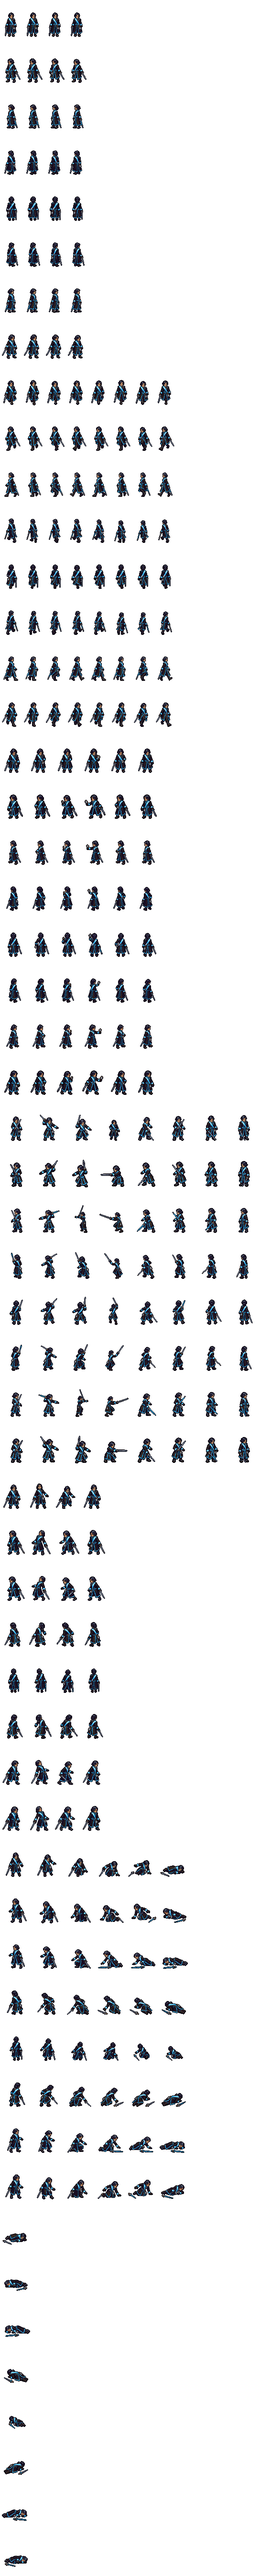
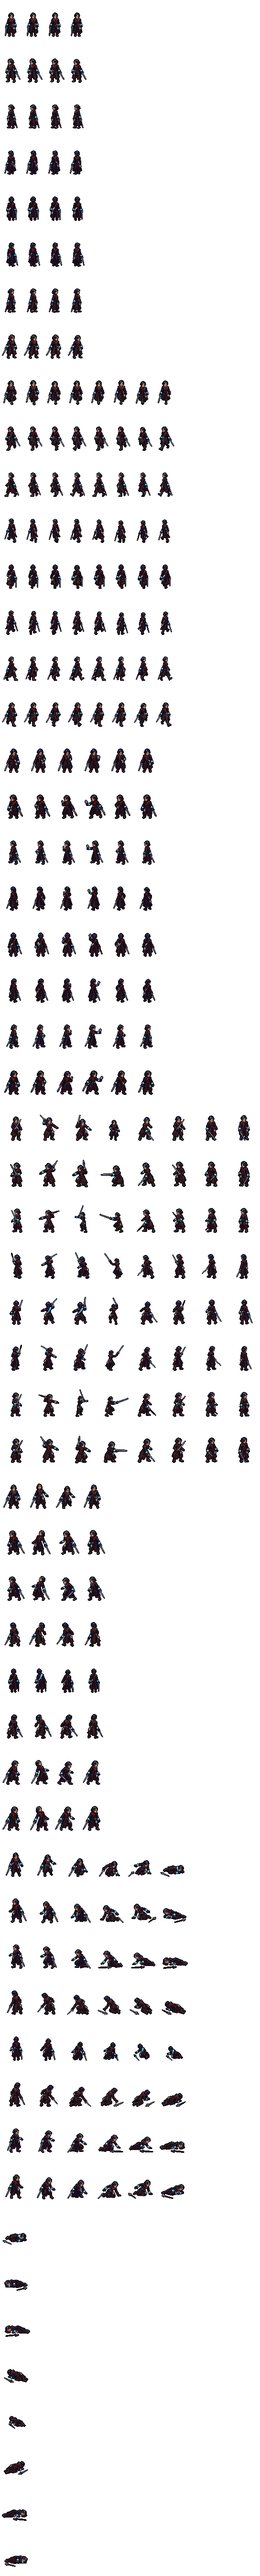
The patrol lady's trims redone: the Dominion's crimson, her patron on her cuffs only (art-wanted 101)
His words, on her first trims set beside the sergeant: "the patron flavor
is too much. It kinda feels like just the cuffs should patron - something
small, with more dominion unity overall".

tools/dmlady-sheet.py trim_mask() marks her cuffs apart on the source
pages (the compact white pieces at her wrists, CUFF) and the rest of her
trim as before; dmladyfiend_p2, dmladymirror_p2 and dmladyfae_p2 now wear
her sash, collar and piping in the sergeant's crimson (DOMINION, the red
ramp's three darks) and only her cuffs in the patron's ramp. dmlady_p2,
the white key, is unchanged. A few frames slip (a cuff run into the
piping reads crimson; her rapier where its shine is the key white): the
dream line says so.

Eyes: eyes-dmlady-fight-1125b cut (its colours judged in chat) for
eyes-dmlady-fight-1125c, the three beside the sergeant. Stamps rebuilt.
(cutter-1125b)

diff --git a/js/eyes.js b/js/eyes.js
@@ -467,10 +467,12 @@
     // THE CUTTER (cutter-1125b), 11-25 evening (Opus; tools/dmlady-sheet.py, tools/portrait-sheet.py; data/foes.js patrollady; js/classes.js patrolladyw;
     // snoot-mode/js/data.js SN.DOMINION): art-wanted 101 (ART-165). Not superseded: eyes-snoot-wagons-1125 and eyes-snoot-ladies-1125 (the seat snoot-1125's: they
     // ask the wagons and the ladies' lists, not her look), eyes-warlock-eight-1015 (the stock warlock's own sheet)
-    'eyes-dmlady-fight-1125b': { pri: 1, group: G2, title: 'THE DOMINION\'S PATROL LADY DRAWN: rapier and mirror, and her trim in her three patrons\' colours, all eight facings (11-25, evening)', pt: 'the story build lane, 2026-11-25 (the cutter, cutter-1125b; tools/dmlady-sheet.py; deep16/art/dmlady_p2, dmladyfiend_p2, dmladymirror_p2, dmladyfae_p2; data/foes.js patrollady)',
-      obj: 'In the gallery, step the patrol lady\'s four sheets: white, the Fiend\'s red, the Mirror\'s cyan, the Fae King\'s violet. Right colours?',
-      url: 'deep16/?gallery&shelf=creatures&rows=dmlady_p2,dmladyfiend_p2,dmladymirror_p2,dmladyfae_p2&beside&lvl=3&fresh=1125ly',
-      look: 'NEW, the art desk\'s ART-165 (art-wanted 101): the Dominion\'s patrol lady, black coat, rapier in her right hand, the small mirror at her left hip. Rows in all eight facings (SW, W, NW the mirrors): idle, walk (SE, E and rear NE as drawn, held by the art desk and cut on your "yes - cut what we have, dreamlist what needs revised" -- their gaits on the dream list), CAST (the mirror presented on frame 4: every spell of hers), attack (the rapier, home on 4), flinch, fall, prone. Her trim was drawn white for the cutter to colour by patron (your "Let the cutter propose the colors as well, it has the palette"): left to right, the white as drawn, then THE FIEND (Savine\'s) red, THE MIRROR (the Old One\'s) the glass\'s cyan, THE FAE KING (Tronupholen\'s, purple-skinned in the realm\'s wiki) violet -- sash, cuffs and piping; the rapier and mirror stay steel, but for the rapier lying beside her at the end of her E and SE falls (its shine drawn in the trim colour). The grid\'s patrol lady, a warlock of the Mirror, wears the cyan; the three patron ladies wear theirs when their blocks land. Judge: are these the three patrons\' colours, and is she the lady of your patrol page?' },
+    // (eyes-dmlady-fight-1125b, written and cut the same evening: its whole-trim patron colours were judged in chat -- "the patron flavor is too much" --
+    //  and redone as the row below asks)
+    'eyes-dmlady-fight-1125c': { pri: 1, group: G2, title: 'THE DOMINION\'S PATROL LADY DRAWN: rapier and mirror, the Dominion\'s crimson trim, her patron on her cuffs, all eight facings (11-25, late)', pt: 'the story build lane, 2026-11-25 (the cutter, cutter-1125b; tools/dmlady-sheet.py; deep16/art/dmlady_p2, dmladyfiend_p2, dmladymirror_p2, dmladyfae_p2; data/foes.js patrollady)',
+      obj: 'In the gallery, step the patrol lady\'s sheets: the sergeant\'s crimson sash, her patron only on her cuffs. Dominion enough?',
+      url: 'deep16/?gallery&shelf=creatures&rows=dmladyfiend_p2,dmladymirror_p2,dmladyfae_p2,dmsergeant_p2&beside&lvl=3&fresh=1125lc',
+      look: 'NEW, the art desk\'s ART-165 (art-wanted 101): the Dominion\'s patrol lady, black coat, rapier in her right hand, the small mirror at her left hip. Rows in all eight facings (SW, W, NW the mirrors): idle, walk (SE, E and rear NE as drawn, held by the art desk and cut on your "yes - cut what we have, dreamlist what needs revised" -- their gaits on the dream list), CAST (the mirror presented on frame 4: every spell of hers), attack (the rapier, home on 4), flinch, fall, prone. Her trim, drawn white for the cutter to colour, redone on your "the patron flavor is too much. It kinda feels like just the cuffs should patron - something small, with more dominion unity overall": sash, collar and piping in the sergeant\'s own crimson (right, for the match), and only her cuffs in her patron\'s colour -- THE FIEND (Savine\'s) red, THE MIRROR (the Old One\'s) the glass\'s cyan, THE FAE KING (Tronupholen\'s, purple-skinned in the realm\'s wiki) violet. A few frames slip: a cuff that runs into her piping reads crimson, and her rapier takes the crimson where its shine is drawn in the trim\'s white (lying beside her at the end of her E and SE falls). The grid\'s patrol lady, a warlock of the Mirror, wears the cyan cuffs; the three patron ladies wear theirs when their blocks land. Judge: is she one of the Dominion beside her sergeant, and do the cuffs say her patron?' },
     'eyes-dmlady-portrait-1125b': { pri: 2, group: G2, title: 'THE PATROL LADY\'S TALKING PORTRAIT: the idle you approved, ART-165 (11-25, evening)', pt: 'the story build lane, 2026-11-25 (the cutter, cutter-1125b; tools/portrait-sheet.py; deep16/art/pt_dmlady)',
       obj: 'Look at the patrol lady\'s talking portrait, six frames. Is this the face you approved?',
       url: 'deep16/?portraits&who=dmlady&lvl=3&fresh=1125lp',

diff --git a/deep16/data/sprites.js b/deep16/data/sprites.js
@@ -4320,7 +4320,7 @@
 "prone: as drawn, matched by width to her Fall 6",
 "her trim white here; tools/dmlady-sheet.py trims() writes her three patrons' sheets from this one"
 ],
-"source": "drawn by the art desk (ART-165, 11-25: art-wanted section 101, the Dominion's patrol lady, rapier and mirror, her trim in white, five views), cut by tools/dmlady-sheet.py over tools/mender-sheet.py's reader and tools/vivian-sheet.py; SW W NW mirrored -- her trim (the white key and its slate shade, found on the source pages) moved to the violet ramp #bb96e0, #8a5cb4, #62398a for the Fae King, by tools/dmlady-sheet.py trims()"
+"source": "drawn by the art desk (ART-165, 11-25: art-wanted section 101, the Dominion's patrol lady, rapier and mirror, her trim in white, five views), cut by tools/dmlady-sheet.py over tools/mender-sheet.py's reader and tools/vivian-sheet.py; SW W NW mirrored -- her trim (the white key and its slate shade, found on the source pages) in the Dominion's crimson #801c1c, #4c1010, #240808, her cuffs in the violet ramp #bb96e0, #8a5cb4, #62398a for the Fae King, by tools/dmlady-sheet.py trims()"
 },
 "dmladyfiend_p2": {
 "image": "art/dmlady_p2.png?v=c579c201c1",
@@ -4404,7 +4404,7 @@
 "prone: as drawn, matched by width to her Fall 6",
 "her trim white here; tools/dmlady-sheet.py trims() writes her three patrons' sheets from this one"
 ],
-"source": "drawn by the art desk (ART-165, 11-25: art-wanted section 101, the Dominion's patrol lady, rapier and mirror, her trim in white, five views), cut by tools/dmlady-sheet.py over tools/mender-sheet.py's reader and tools/vivian-sheet.py; SW W NW mirrored -- her trim (the white key and its slate shade, found on the source pages) moved to the red ramp #e8624a, #b83428, #801c1c for the Fiend, by tools/dmlady-sheet.py trims()"
+"source": "drawn by the art desk (ART-165, 11-25: art-wanted section 101, the Dominion's patrol lady, rapier and mirror, her trim in white, five views), cut by tools/dmlady-sheet.py over tools/mender-sheet.py's reader and tools/vivian-sheet.py; SW W NW mirrored -- her trim (the white key and its slate shade, found on the source pages) in the Dominion's crimson #801c1c, #4c1010, #240808, her cuffs in the red ramp #e8624a, #b83428, #801c1c for the Fiend, by tools/dmlady-sheet.py trims()"
 },
 "dmladymirror_p2": {
 "image": "art/dmlady_p2.png?v=c579c201c1",
@@ -4488,7 +4488,7 @@
 "prone: as drawn, matched by width to her Fall 6",
 "her trim white here; tools/dmlady-sheet.py trims() writes her three patrons' sheets from this one"
 ],
-"source": "drawn by the art desk (ART-165, 11-25: art-wanted section 101, the Dominion's patrol lady, rapier and mirror, her trim in white, five views), cut by tools/dmlady-sheet.py over tools/mender-sheet.py's reader and tools/vivian-sheet.py; SW W NW mirrored -- her trim (the white key and its slate shade, found on the source pages) moved to the glow ramp #a8e8ff, #3cbcfc, #1a5c80 for the Mirror, by tools/dmlady-sheet.py trims()"
+"source": "drawn by the art desk (ART-165, 11-25: art-wanted section 101, the Dominion's patrol lady, rapier and mirror, her trim in white, five views), cut by tools/dmlady-sheet.py over tools/mender-sheet.py's reader and tools/vivian-sheet.py; SW W NW mirrored -- her trim (the white key and its slate shade, found on the source pages) in the Dominion's crimson #801c1c, #4c1010, #240808, her cuffs in the glow ramp #a8e8ff, #3cbcfc, #1a5c80 for the Mirror, by tools/dmlady-sheet.py trims()"
 },
 "dmsergeant_p2": {
 "image": "art/dmsergeant_p2.png?v=d4382d62b4",

diff --git a/deep16/index.html b/deep16/index.html
@@ -113,7 +113,7 @@
 <script src="js/art.js?v=e1ce4cf012"></script>
 <script src="data/cavern.js?v=647c1a184a"></script>
 <script src="data/maps.js?v=d33fd7d069"></script>
-<script src="data/sprites.js?v=c769f52775"></script>
+<script src="data/sprites.js?v=93caca2078"></script>
 <script src="js/sprites.js?v=6d0752045d"></script>
 <script src="js/save.js?v=afbd9d9582"></script>
 <script src="data/spells.js?v=5245b60266"></script>
@@ -230,7 +230,7 @@
 <script src="js/parade.js?v=d6c6aba1dc"></script>
 <script src="js/ripplesfight.js?v=6b8c16eeac"></script>
 <script src="js/blackegg.js?v=aecca221cc"></script>
-<script src="../js/eyes.js?v=e2c57d33f3"></script>
+<script src="../js/eyes.js?v=1333889b8c"></script>
 <script src="../js/tour.js?v=bd4c5f3949"></script>
 <script src="js/onegallery.js?v=b8317cb4a0"></script>
 <script src="js/situations16.js?v=cc81728a85"></script>

diff --git a/tools/dmlady-sheet.py b/tools/dmlady-sheet.py
@@ -22,11 +22,14 @@ Fall 6) over tools/vivian-sheet.py.
 
 THE TRIMS (his "4 - Let the cutter propose the colors as well, it has the palette"): at 1x her shaded trim and her steel snap to the same silvers, so
 the trim is found on the SOURCE pages (trim_mask(): the exact #FFFFFF key, grown at most REACH page px through light, neutral-or-slate pixels -- never
-warm, her face's highlights), painted MARK, cut again by the same windows and page scales, and read back where the green landed; each patron's sheet is
-dmlady_p2 with those pixels moved, by their own lightness, to a ramp of the 64 (TRIM): the Fiend (Savine's) red, the Mirror (the Old One's) the glass's
-cyan, the Fae King (Tronupholen's, the Trickster, "Purple-skinned", TarlynsPit/wiki/dominion.md) violet. dmlady_p2 keeps the white. Known: on her E and
-SE Fall's last frames and Prone the fallen rapier's highlights are drawn in the key's exact white, so the blade takes the patron's colour there (the
-dream list).
+warm, her face's highlights), painted MARK -- her cuffs apart, CUFF_MARK (the compact white pieces at her wrists, CUFF) -- cut again by the same
+windows and page scales, and read back where each mark landed. RULED 11-25, Griz, on the first trims (the whole trim in the patron's colour) set beside
+the sergeant: "the patron flavor is too much. It kinda feels like just the cuffs should patron - something small, with more dominion unity overall". So
+each patron's sheet is dmlady_p2 with her sash, collar and piping in the sergeant's crimson (DOMINION) and only her cuffs, by their own lightness, in a
+ramp of the 64 (TRIM): the Fiend (Savine's) red, the Mirror (the Old One's) the glass's cyan, the Fae King (Tronupholen's, the Trickster,
+"Purple-skinned", TarlynsPit/wiki/dominion.md) violet. dmlady_p2 keeps the white. Known: where her rapier's highlights are drawn in the key's exact
+white -- lying beside her at the end of her E and SE falls, and its tip raised on her NE attack's first frame -- the blade takes the crimson; and a cuff
+that runs into her piping reads crimson in a few frames (the dream list).
 """
 import csv, importlib.util, json, os, sys
 import numpy as np
@@ -66,6 +69,12 @@ TRIM = {'dmladyfiend_p2': ('Patrol Lady (the Fiend)', 'red', ['#e8624a', '#b8342
         'dmladymirror_p2': ('Patrol Lady (the Mirror)', 'glow', ['#a8e8ff', '#3cbcfc', '#1a5c80']),
         'dmladyfae_p2': ('Patrol Lady (the Fae King)', 'violet', ['#bb96e0', '#8a5cb4', '#62398a'])}
 MARK = (0, 255, 0)   # (her trim painted on the source copies: it snaps to the 64's greens, which nothing of hers wears)
+CUFF_MARK = (0, 255, 255)   # (her cuffs painted apart: they snap to the glow ramp's cyans, which nothing of hers wears either)
+DOMINION = ['#801c1c', '#4c1010', '#240808']   # (her sash, collar and piping: the sergeant's crimson, dmsergeant_p2's sash -- Griz, 11-25: "the patron
+                                               #  flavor is too much. It kinda feels like just the cuffs should patron - something small, with more
+                                               #  dominion unity overall")
+CUFF = (60, 0.5, 1.8)       # (source: a cuff is a white piece of at least this many px, filling at least this much of its box, at most this long for its
+                            #  width -- two compact bands at her wrists; the sash runs diagonal (fill ~0.37), the piping long and thin)
 LIGHT = 120          # (source: the slate shade joined to the white key -- at least this light at its darkest channel, within 70 between its channels)
 REACH = 30           # (source px: how far that shade reaches from the white -- across the sash at ~6 page px a game px; at 48 it ran along her rapier where the blade crosses the sash)
 LIT, MID, SHADE = 200, 130, 80   # (1x, a trim pixel's mean channel: the patron's lit, mid and shade)
@@ -110,11 +119,19 @@ def trim_mask():
                                                                    #  fallen rapier on the SE Fall took the patron's colour its whole length)
         light = (mn >= LIGHT) & (mx - mn <= 70) & (rgb[..., 2] >= rgb[..., 0] - 12)   # (neutral or slate, never warm: her face's pale highlights join her
                                                                                      #  white collar, and the first mask took a patch of her cheek)
-        trim, edge = white.copy(), white.copy()
-        for _ in range(REACH):                                    # (the shade grown from the white through light pixels, at most REACH page px: where
-            edge = ndimage.binary_dilation(edge, np.ones((3, 3), bool)) & light & ~trim   #  her fallen rapier lies against a cuff, only its touching end goes)
-            trim |= edge
-        a[trim, :3] = MARK
+        lab, n = ndimage.label(white, structure=np.ones((3, 3)))
+        cuffw = np.zeros_like(white)
+        for i, sl in enumerate(ndimage.find_objects(lab), 1):
+            pc = lab[sl] == i; h, w = sl[0].stop - sl[0].start, sl[1].stop - sl[1].start
+            if pc.sum() >= CUFF[0] and pc.sum() >= CUFF[1] * h * w and max(h, w) <= CUFF[2] * min(h, w):
+                cuffw[sl] |= pc
+        done = np.zeros_like(white)
+        for seed, col in ((cuffw, CUFF_MARK), (white & ~cuffw, MARK)):   # (the cuffs grown first, then the rest of her trim)
+            trim, edge = seed.copy(), seed.copy()
+            for _ in range(REACH):                                # (the shade grown from the white through light pixels, at most REACH page px: where
+                edge = ndimage.binary_dilation(edge, np.ones((3, 3), bool)) & light & ~trim & ~done   #  her fallen rapier lies against a cuff, only its
+                trim |= edge                                      #  touching end goes)
+            a[trim & ~done, :3] = col; done |= trim
         os.makedirs(os.path.dirname(os.path.join(d1, fn)), exist_ok=True)
         Image.fromarray(a, 'RGBA').save(os.path.join(d1, fn))
     shutil.copy(os.path.join(d0, 'FRAME-MAP.csv'), d1)
@@ -130,29 +147,34 @@ def trim_mask():
         shutil.rmtree(tmp, ignore_errors=True)
     im = np.asarray(Image.open(os.path.join(art, 'dmlady_p2.png')).convert('RGBA'))
     assert mk.shape == im.shape and ((mk[..., 3] > 0) == (im[..., 3] > 0)).all(), 'the marked cut is not registered with the plain one'
-    g = mk[..., :3].astype(int)
-    return (mk[..., 3] > 0) & (g[..., 1] - np.maximum(g[..., 0], g[..., 2]) >= 8)   # (where the mark landed: the 64's greens, the orc and moss ramps and
-                                                                                   #  #2a7a70 -- not "differs", since the snap shifts her coat's darks too)
+    g = mk[..., :3].astype(int); on = mk[..., 3] > 0
+    rest = on & (g[..., 1] - np.maximum(g[..., 0], g[..., 2]) >= 8)   # (where the mark landed: the 64's greens, the orc and moss ramps and #2a7a70 --
+                                                                      #  not "differs", since the snap shifts her coat's darks too)
+    cuff = on & (g[..., 2] - g[..., 0] >= 60) & (g[..., 1] - g[..., 0] >= 50)   # (the cuffs' mark: the glow cyans; her silvers are 30 bluer than red at most)
+    return cuff, rest & ~cuff
 
 
 def trims():
     """the three patron sheets from deep16/art/dmlady_p2: her trim (trim_mask()) moved to each patron's ramp by its own lightness -- lit, mid, shade;
     a trim pixel darker than SHADE (its edge blended into her coat) left as it is"""
     art = os.path.join(ROOT, 'deep16', 'art')
-    m = trim_mask()
+    cuff, rest = trim_mask()
     im = np.asarray(Image.open(os.path.join(art, 'dmlady_p2.png')).convert('RGBA')).copy()
     meta = json.load(open(os.path.join(art, 'dmlady_p2.json')))
     L = im[..., :3].astype(int).mean(-1)
-    lv = [m & (L >= LIT), m & (L >= MID) & (L < LIT), m & (L >= SHADE) & (L < MID)]
+    lv = lambda m: [m & (L >= LIT), m & (L >= MID) & (L < LIT), m & (L >= SHADE) & (L < MID)]
     for name, (label, ramp, cols) in TRIM.items():
         o = im.copy()
-        for k, c in zip(lv, cols):
+        for k, c in zip(lv(rest), DOMINION):
+            o[k, :3] = hexrgb(c)
+        for k, c in zip(lv(cuff), cols):
             o[k, :3] = hexrgb(c)
         Image.fromarray(o, 'RGBA').save(os.path.join(art, name + '.png'), optimize=True)
-        m2 = dict(meta, name=label, source=meta.get('source', '') + ' -- her trim (the white key and its slate shade, found on the source pages) moved to the '
-                  '%s ramp %s for %s, by tools/dmlady-sheet.py trims()' % (ramp, ', '.join(cols), label.split('(')[1].rstrip(')')))
+        m2 = dict(meta, name=label, source=meta.get('source', '') + ' -- her trim (the white key and its slate shade, found on the source pages) in the '
+                  'Dominion\'s crimson %s, her cuffs in the %s ramp %s for %s, by tools/dmlady-sheet.py trims()' % (', '.join(DOMINION), ramp, ', '.join(cols),
+                  label.split('(')[1].rstrip(')')))
         json.dump(m2, open(os.path.join(art, name + '.json'), 'w'), indent=1)
-    print('  trims: %d trim px (%s lit, mid, shade) recoloured into %s' % (int(sum(k.sum() for k in lv)), '/'.join(str(int(k.sum())) for k in lv), ', '.join(TRIM)))
+    print('  trims: %d px crimson, %d px cuffs, into %s' % (int(sum(k.sum() for k in lv(rest))), int(sum(k.sum() for k in lv(cuff))), ', '.join(TRIM)))
 
 
 LOOK = dict(src=SRC, name='Patrol Lady', trim=False, tall=TALL, avoid=AVOID, bgtol=BGTOL,

diff --git a/deep16-dream-polish.md b/deep16-dream-polish.md
@@ -189,4 +189,4 @@ Griz, 10-30, to the lanes desk, on Talmok's walks that repeat a leg: *"gimpy art
 - 2026-11-25 · `dmlady_p2` (and `dmladyfiend_p2`, `dmladymirror_p2`, `dmladyfae_p2`) walk, SE (and its SW mirror) (the art desk's ART-165, art-wanted 101) · Held by the art desk: the lead foot's change between frames 1 and 5 ambiguous after its redraws. Cut as drawn on his *"yes - cut what we have, dreamlist what needs revised"* (cutter-1125b). · An eight-phase gait, 1 and 5 opposite leads, as her S and N.
 - 2026-11-25 · `dmlady_p2` (and its patron sheets) walk, E (and its W mirror) (ART-165, art-wanted 101) · As her SE: the lead change between 1 and 5 ambiguous; cut as drawn on his word (cutter-1125b). · The profile gait with the near and far legs plainly alternating.
 - 2026-11-25 · `dmlady_p2` (and its patron sheets) walk, rear NE (and its NW mirror) (ART-165, art-wanted 101) · As her SE: the lead change between 1 and 5 ambiguous; cut as drawn on his word (cutter-1125b). · A rear three-quarter gait, 1 and 5 opposite leads.
-- 2026-11-25 · `dmladyfiend_p2`, `dmladymirror_p2`, `dmladyfae_p2` hurt (the Fall's last frames) and prone, E and SE (and their mirrors) (ART-165, art-wanted 101) · Her fallen rapier's highlights are drawn in the cloth key's exact white (`#FFFFFF`), so `tools/dmlady-sheet.py` trims() takes the blade lying beside her for trim, and it wears the patron's colour there. Cut as found (cutter-1125b). · Those pages' steel highlights a shade off the key white.
+- 2026-11-25 · `dmladyfiend_p2`, `dmladymirror_p2`, `dmladyfae_p2` hurt (the Fall's last frames) and prone, E and SE (and their mirrors) (ART-165, art-wanted 101) · Her fallen rapier's highlights are drawn in the cloth key's exact white (`#FFFFFF`), so `tools/dmlady-sheet.py` trims() takes the blade lying beside her for trim, and it wears the Dominion's crimson there (the tip of her raised rapier on the NE attack's first frame too); and a cuff that runs into her piping reads crimson, not her patron's colour, in a few frames. Cut as found (cutter-1125b). · Those pages' steel highlights a shade off the key white; the cuffs drawn apart from the piping.
